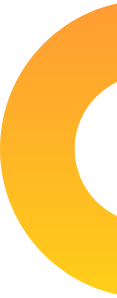
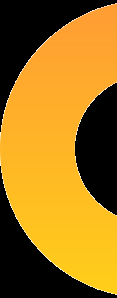
middle part of site partially completed

diff --git a/index.html b/index.html
@@ -27,14 +27,39 @@
                 I can also design html banners for Google Adwords.
                 Working with you would be a delight. </p>
             <br>
-            <a class="link-button" target="blank"
+            <a class="link-button" target="_blank"
                 href="https://www.linkedin.com/in/mohammad-shafiqul-islam-83a3851b5/">CONTACT ME</a>
 
         </div>
 
         <div class="half-width">
+            <img src="images\shaafi_3-removebg-preview.png" alt="MY Image">
+        </div>
+    </section>
+
+
+
+    <section class="middle_banner">
+        <div class="half-width">
             <img src="images\shaafi_1_black.png" alt="MY Image">
         </div>
+        <div class="half-width">
+
+            <h1 class="introduce">Why Should You Work With Me?</h1>
+            <h3 class="hi"><span class="my-name">Skill Overview<span></h3>
+            <p class="description">I've worked on a variety of websites.
+                I'm a full-stack developer who excels at both front-end and back-end development.
+                HTML, CSS, Bootstrap, JavaScript, NodeJs, MongoDB, React, and PHP are among the technologies in which I
+                am
+                proficient.
+                I can also design html banners for Google Adwords.
+                Working with you would be a delight. </p>
+            <br>
+            <a class="link-button" target="_blank"
+                href="https://www.linkedin.com/in/mohammad-shafiqul-islam-83a3851b5/">RESUME</a>
+
+        </div>
+
     </section>
 </body>
 

diff --git a/style.css b/style.css
@@ -6,9 +6,11 @@ body{
     
 }
 .introduce{
-    font-size: 50px;
+    font-size: 40px;
    
 }
+
+
 .hi .description{
     font-size: 25px;
 }
@@ -20,6 +22,7 @@ body{
 
 section{
     display: flex;
+    margin-bottom: 100px;
 }
 
 .half-width{
@@ -28,7 +31,7 @@ section{
 }
 
 .half-width img{
-    width: 80%;
+    width: 60%;
 } 
 
 .link-button{
@@ -45,3 +48,8 @@ section{
     background-repeat: no-repeat;
 }
 
+.middle_banner{
+    background-image: url(images/dream-bg.png)  ;
+    background-repeat: no-repeat;
+    background-position: right;
+}
